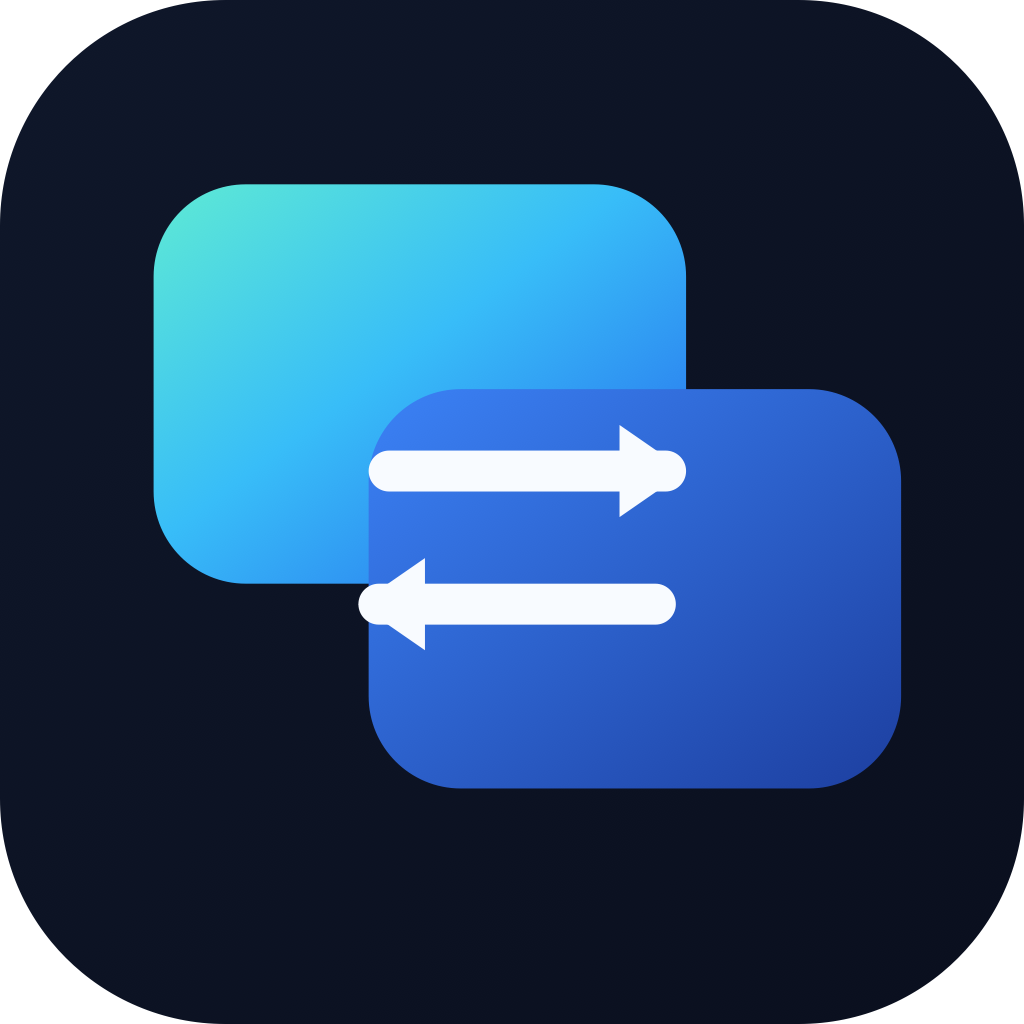
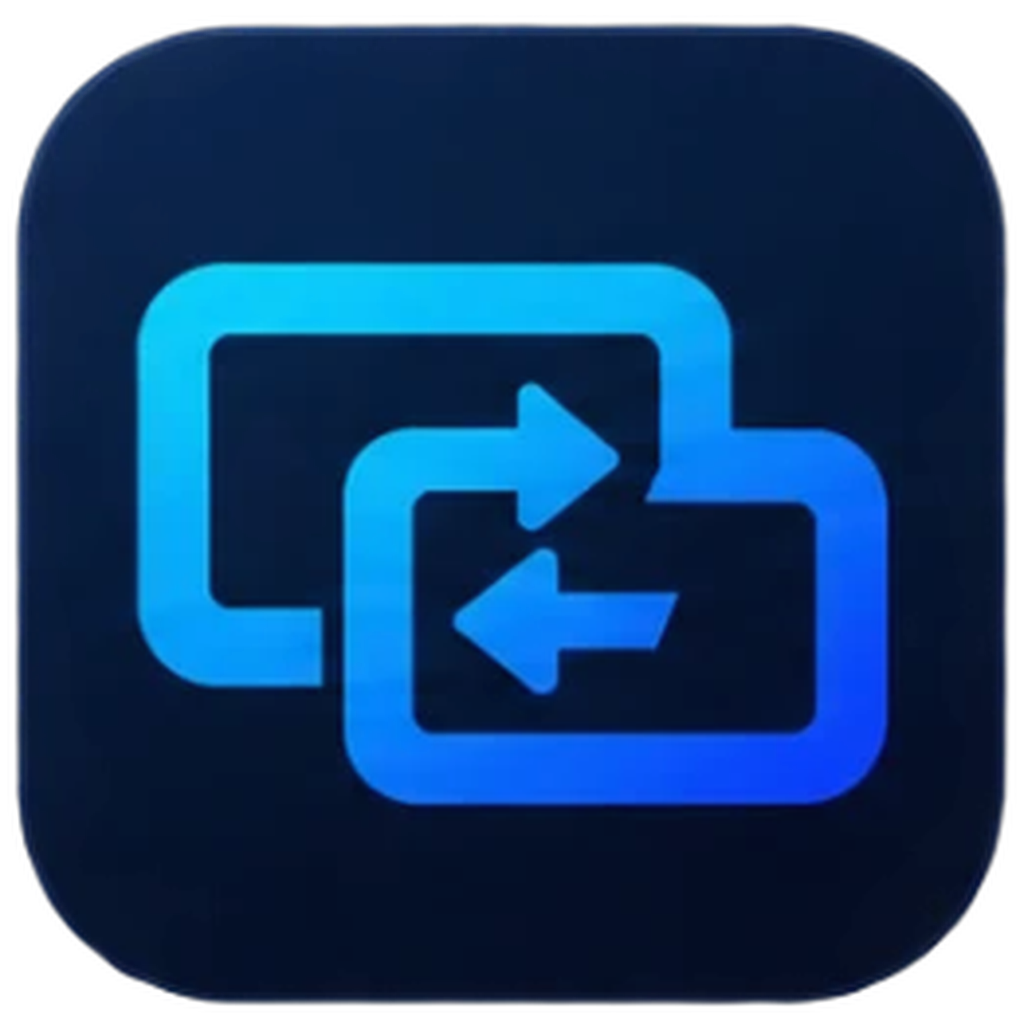
feat: atualiza identidade visual com o novo pacote de ícones
Troca a logo desenhada à mão (SVG aproximado) e os emojis usados como
ícone pela arte oficial nova enviada pelo usuário, usada tal como veio
(sem alterar formas/traços) — só os ícones de computador e celular
ganharam uma versão branca, por pedido explícito, pra usar dentro de
botões e chips com fundo colorido.

- Ícone do app (dock/instalador) trocado pela versão "rounded square"
  escura com o símbolo de duas telas + setas, exportado em 1024×1024.
- Logo do cabeçalho (LogoMark) agora renderiza a arte nova em vez do
  SVG recriado à mão.
- Botões "Compartilhar"/"Receber" e os links de "iPhone/Android" e
  "Conectar por IP" ganharam os ícones correspondentes (monitor,
  monitor+celular, celular, setas de transferência).
- Cards de dispositivo (DeviceCard) trocam o emoji por um chip com
  fundo em gradiente e o ícone branco de monitor/celular.
- Botões de Syphon/Spout e "trocar compartilhamento" na tela de
  visualização usam os ícones de sincronização e transferência.
- Pontinho de status "compartilhando" e cores dos indicadores
  online/offline (tl-dot) ajustados pro verde/cinza exatos do material
  novo.

Assets fonte completos (incluindo os ainda não usados na UI) ficam em
resources/icons/ pra uso futuro.

diff --git a/src/renderer/src/screens/HomeScreen.tsx b/src/renderer/src/screens/HomeScreen.tsx
@@ -1,6 +1,10 @@
 import type { DeviceInfo, DiscoveredDevice } from '../../../shared/types'
 import { Logo } from '../components/Logo'
 import { DeviceCard } from '../components/DeviceCard'
+import iconMonitorWhite from '../assets/icons/icon_monitor_white.png'
+import iconMonitorPhone from '../assets/icons/icon_monitor_phone.png'
+import iconPhone from '../assets/icons/icon_phone.png'
+import iconTransfer from '../assets/icons/icon_transfer.png'
 
 interface HomeScreenProps {
   device: DeviceInfo | null
@@ -35,10 +39,10 @@ export function HomeScreen({ device, devices, onShare, onReceive, onWebShare, on
 
       <div style={{ display: 'flex', flexDirection: 'column', gap: 12 }}>
         <button className="tl-btn tl-btn-primary" onClick={onShare}>
-          <span style={{ fontSize: 18 }}>🖥</span> Compartilhar minha tela
+          <img src={iconMonitorWhite} alt="" style={{ height: 20 }} /> Compartilhar minha tela
         </button>
         <button className="tl-btn tl-btn-secondary" onClick={onReceive}>
-          <span style={{ fontSize: 18 }}>📺</span> Receber uma tela
+          <img src={iconMonitorPhone} alt="" style={{ height: 20 }} /> Receber uma tela
         </button>
         <button
           onClick={onWebShare}
@@ -49,10 +53,14 @@ export function HomeScreen({ device, devices, onShare, onReceive, onWebShare, on
             fontSize: 12,
             padding: '4px 0',
             cursor: 'pointer',
-            textAlign: 'center'
+            textAlign: 'center',
+            display: 'flex',
+            alignItems: 'center',
+            justifyContent: 'center',
+            gap: 6
           }}
         >
-          🌐 Compartilhar com iPhone/Android (navegador)
+          <img src={iconPhone} alt="" style={{ height: 14 }} /> Compartilhar com iPhone/Android (navegador)
         </button>
         <button
           onClick={onManualConnect}
@@ -63,10 +71,14 @@ export function HomeScreen({ device, devices, onShare, onReceive, onWebShare, on
             fontSize: 12,
             padding: '4px 0',
             cursor: 'pointer',
-            textAlign: 'center'
+            textAlign: 'center',
+            display: 'flex',
+            alignItems: 'center',
+            justifyContent: 'center',
+            gap: 6
           }}
         >
-          🔌 Conectar por IP (busca automática não achou?)
+          <img src={iconTransfer} alt="" style={{ height: 14, opacity: 0.8 }} /> Conectar por IP (busca automática não achou?)
         </button>
       </div>
 

diff --git a/src/renderer/src/screens/ViewerScreen.tsx b/src/renderer/src/screens/ViewerScreen.tsx
@@ -1,5 +1,7 @@
-import { useEffect, useRef, useState } from 'react'
+import { useEffect, useRef, useState, type ReactNode } from 'react'
 import type { PeerSession, PeerSessionStats } from '../webrtc/PeerSession'
+import iconSyncWhite from '../assets/icons/icon_sync_white.png'
+import iconTransferWhite from '../assets/icons/icon_transfer_white.png'
 
 interface ViewerScreenProps {
   remoteStream: MediaStream
@@ -174,10 +176,10 @@ export function ViewerScreen({ remoteStream, peerSession, peerName, onSwap, onDi
           onClick={() => void handleToggleTexture()}
           active={textureSharing}
         >
-          📡
+          <img src={iconSyncWhite} alt="" style={{ height: 16 }} />
         </IconButton>
         <IconButton label="Trocar compartilhamento" onClick={onSwap}>
-          ⇄
+          <img src={iconTransferWhite} alt="" style={{ height: 14 }} />
         </IconButton>
         <IconButton label="Desconectar" onClick={onDisconnect} danger>
           ✕
@@ -210,7 +212,7 @@ function IconButton({
   danger,
   active
 }: {
-  children: string
+  children: ReactNode
   label: string
   onClick: () => void
   danger?: boolean
@@ -228,7 +230,10 @@ function IconButton({
         background: danger ? 'rgba(239,68,68,0.15)' : active ? 'var(--tl-gradient-strong)' : 'transparent',
         color: danger ? '#fca5a5' : 'var(--tl-text)',
         fontSize: 16,
-        cursor: 'pointer'
+        cursor: 'pointer',
+        display: 'flex',
+        alignItems: 'center',
+        justifyContent: 'center'
       }}
     >
       {children}

diff --git a/src/renderer/src/components/Logo.tsx b/src/renderer/src/components/Logo.tsx
@@ -1,29 +1,13 @@
+import logoMarkSrc from '../assets/icons/logo_mark.png'
+
 interface LogoMarkProps {
   size?: number
 }
 
+const LOGO_MARK_RATIO = 347 / 251
+
 export function LogoMark({ size = 40 }: LogoMarkProps): JSX.Element {
-  return (
-    <svg width={size} height={size} viewBox="0 0 200 200" xmlns="http://www.w3.org/2000/svg">
-      <defs>
-        <linearGradient id="tl-screen-back" x1="0" y1="0" x2="1" y2="1">
-          <stop offset="0" stopColor="#5eead4" />
-          <stop offset="0.45" stopColor="#38bdf8" />
-          <stop offset="1" stopColor="#2563eb" />
-        </linearGradient>
-        <linearGradient id="tl-screen-front" x1="0" y1="0" x2="1" y2="1">
-          <stop offset="0" stopColor="#3b82f6" />
-          <stop offset="1" stopColor="#1d3fa0" />
-        </linearGradient>
-      </defs>
-      <rect x="22" y="28" width="112" height="84" rx="20" fill="url(#tl-screen-back)" />
-      <rect x="68" y="70" width="112" height="84" rx="20" fill="url(#tl-screen-front)" />
-      <path d="M 72 88 C 96 88, 112 88, 132 88" fill="none" stroke="#f8fbff" strokeWidth="9" strokeLinecap="round" />
-      <path d="M 122 78 L 136 88 L 122 98 Z" fill="#f8fbff" />
-      <path d="M 130 116 C 106 116, 90 116, 70 116" fill="none" stroke="#f8fbff" strokeWidth="9" strokeLinecap="round" />
-      <path d="M 80 106 L 66 116 L 80 126 Z" fill="#f8fbff" />
-    </svg>
-  )
+  return <img src={logoMarkSrc} alt="TelaLink" style={{ height: size, width: size * LOGO_MARK_RATIO }} />
 }
 
 interface LogoProps {

diff --git a/src/renderer/src/components/DeviceCard.tsx b/src/renderer/src/components/DeviceCard.tsx
@@ -1,4 +1,6 @@
 import type { DeviceType, DiscoveredDevice } from '../../../shared/types'
+import iconMonitorWhite from '../assets/icons/icon_monitor_white.png'
+import iconPhoneWhite from '../assets/icons/icon_phone_white.png'
 
 const TYPE_LABEL: Record<DeviceType, string> = {
   mac: 'Mac',
@@ -10,12 +12,12 @@ const TYPE_LABEL: Record<DeviceType, string> = {
 }
 
 const TYPE_ICON: Record<DeviceType, string> = {
-  mac: '🖥',
-  windows: '🖥',
-  linux: '🖥',
-  android: '📱',
-  ios: '📱',
-  unknown: '💻'
+  mac: iconMonitorWhite,
+  windows: iconMonitorWhite,
+  linux: iconMonitorWhite,
+  android: iconPhoneWhite,
+  ios: iconPhoneWhite,
+  unknown: iconMonitorWhite
 }
 
 interface DeviceCardProps {
@@ -38,7 +40,20 @@ export function DeviceCard({ device, actionLabel, onAction, disabled, busy }: De
         opacity: device.blocked ? 0.5 : 1
       }}
     >
-      <span style={{ fontSize: 22 }}>{TYPE_ICON[device.type]}</span>
+      <span
+        style={{
+          width: 34,
+          height: 34,
+          borderRadius: 10,
+          background: 'var(--tl-gradient-strong)',
+          display: 'flex',
+          alignItems: 'center',
+          justifyContent: 'center',
+          flexShrink: 0
+        }}
+      >
+        <img src={TYPE_ICON[device.type]} alt="" style={{ height: 18 }} />
+      </span>
       <div style={{ flex: 1, minWidth: 0 }}>
         <div style={{ display: 'flex', alignItems: 'center', gap: 8 }}>
           <span

diff --git a/src/renderer/src/App.tsx b/src/renderer/src/App.tsx
@@ -421,7 +421,16 @@ export default function App(): JSX.Element {
 
       {view === 'sharing' && sharing && (
         <div style={{ height: '100%', display: 'flex', flexDirection: 'column', alignItems: 'center', justifyContent: 'center', padding: 24, textAlign: 'center' }}>
-          <div style={{ fontSize: 40, marginBottom: 12 }}>🟢</div>
+          <div
+            style={{
+              width: 40,
+              height: 40,
+              borderRadius: '50%',
+              marginBottom: 12,
+              background: 'var(--tl-success)',
+              boxShadow: '0 0 24px rgba(20, 177, 119, 0.6)'
+            }}
+          />
           <div style={{ fontWeight: 700, fontSize: 16 }}>Compartilhando tela</div>
           <div style={{ color: 'var(--tl-text-dim)', fontSize: 13, marginTop: 4 }}>
             {sharing.sourceName} → {sharing.peer.name}

diff --git a/src/renderer/src/styles/global.css b/src/renderer/src/styles/global.css
@@ -13,9 +13,10 @@
   --tl-teal: #5eead4;
   --tl-gradient: linear-gradient(135deg, var(--tl-teal) 0%, var(--tl-cyan) 45%, var(--tl-blue) 100%);
   --tl-gradient-strong: linear-gradient(135deg, #3b82f6 0%, #1d3fa0 100%);
-  --tl-success: #22c55e;
+  --tl-success: #14b177;
   --tl-warning: #f59e0b;
   --tl-danger: #ef4444;
+  --tl-dot-offline: #496f9b;
   --tl-radius-lg: 20px;
   --tl-radius-md: 14px;
   --tl-radius-sm: 10px;
@@ -128,13 +129,13 @@ button {
 }
 .tl-dot-online {
   background: var(--tl-success);
-  box-shadow: 0 0 8px rgba(34, 197, 94, 0.7);
+  box-shadow: 0 0 8px rgba(20, 177, 119, 0.7);
 }
 .tl-dot-busy {
   background: var(--tl-warning);
 }
 .tl-dot-offline {
-  background: var(--tl-text-faint);
+  background: var(--tl-dot-offline);
 }
 
 .tl-fade-in {
